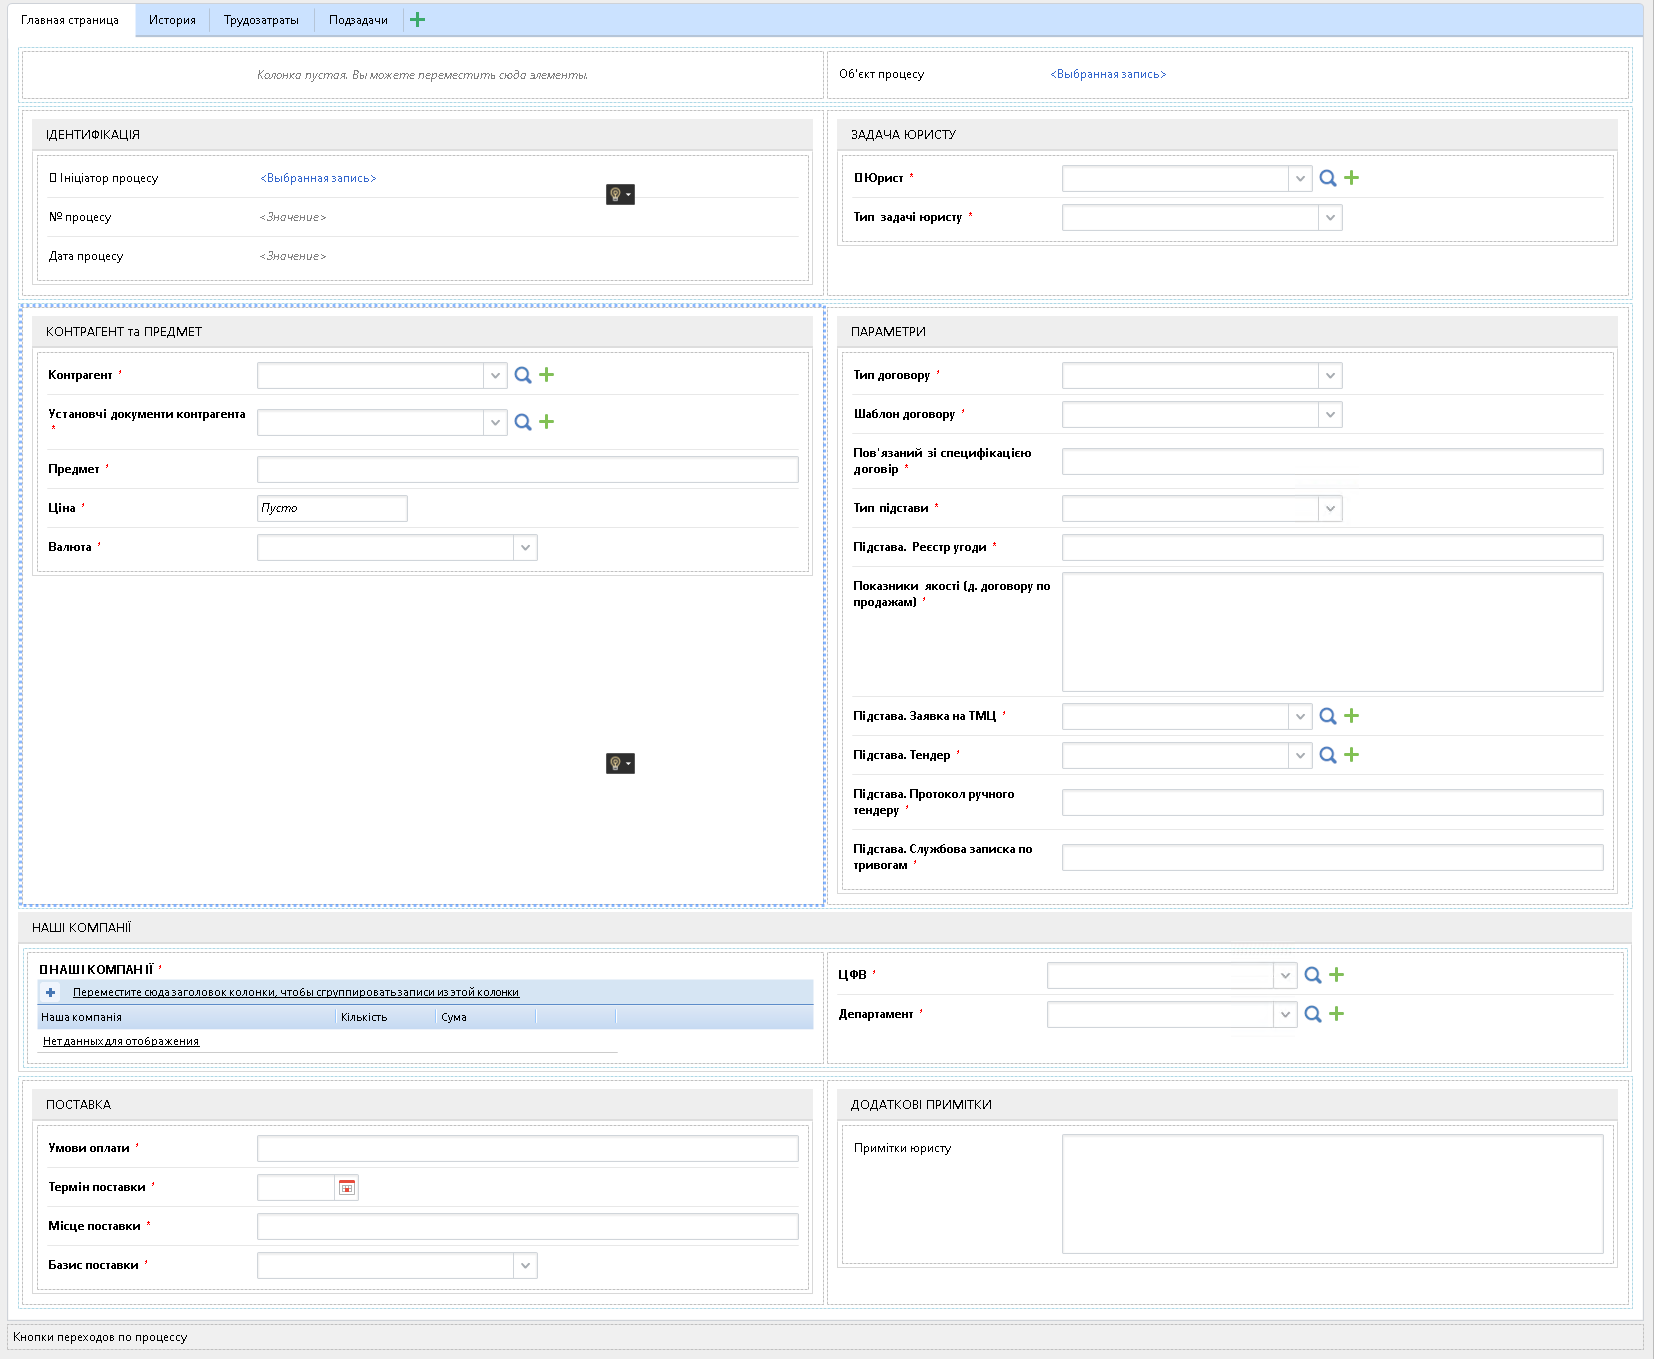
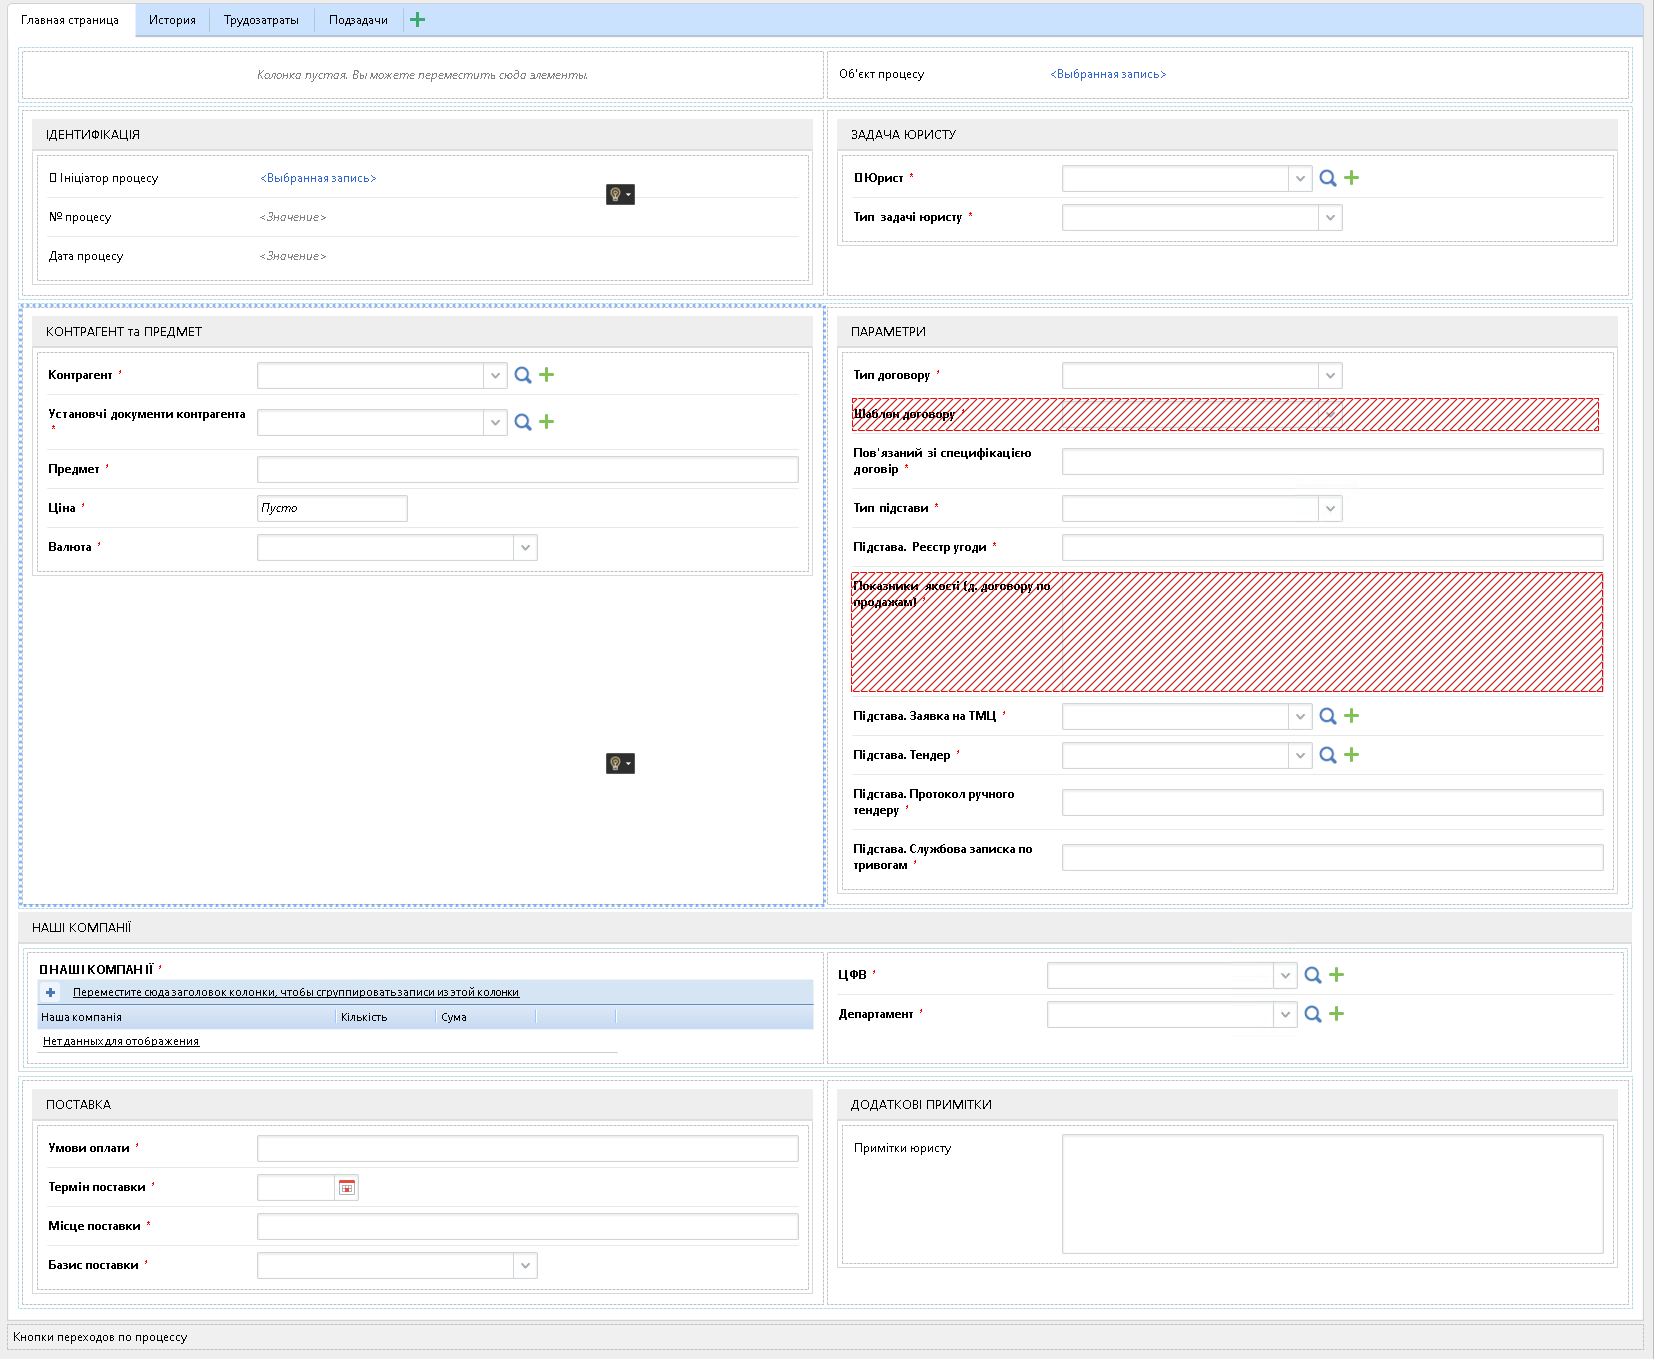
WIP

Changed region(s): [[0.4933, 0.4018, 0.9867, 0.5254], [0.5242, 0.2781, 0.9559, 0.34]]

diff --git a/Kusto/Processes/B/16/README.MD b/Kusto/Processes/B/16/README.MD
@@ -83,38 +83,44 @@
 - `     ✏ ` — Для заповнення
 - `     ✏❗` — Для заповнення, **обов'язково**
 
-|🛠|| Властивість </br> `Property` | Тип даних </br> `DataType` | Примітки |
+|🛠|На формі| Властивість </br> `Property` | Тип даних </br> `DataType` | Примітки |
 |---|---|---|---|---|
-||| 👤 Ініціатор процесу </br> `Z10Usr_Initiator` | 📘 [Користувач](../../../Entities/User.md) </br> `User` |  |
-||| № процесу </br> `ProcNumber` | Ціле число </br> `Int64` |  |
-||| Дата процесу </br> `ProcDate` | Дата / час </br> `DateTime` |  |
-||| 👤 Юрист </br> `Usr_Lawyer` | 📘 [Користувач](../../../Entities/User.md) </br> `User` |  |
-||---|---|---|---|
+||`  👁    `| Об'єкт процесу </br> `ProcObject` | 📘 [Задача юристу](../../../Entities/TaskToLawyer.md) </br> `TaskToLawyer` |  |
+||| ◤ ІДЕНТИФІКАЦІЯ |---|Блок на формі|
+||`  👁    `| 👤 Ініціатор процесу </br> `Z10Usr_Initiator` | 📘 [Користувач](../../../Entities/User.md) </br> `User` |  |
+||`  👁    `| № процесу </br> `ProcNumber` | Ціле число </br> `Int64` |  |
+||`  👁    `| Дата процесу </br> `ProcDate` | Дата / час </br> `DateTime` |  |
+||| ◤ ЗАДАЧА ЮРИСТУ |---|Блок на формі|
+||`     ✏❗`| 👤 Юрист </br> `Usr_Lawyer` | 📘 [Користувач](../../../Entities/User.md) </br> `User` |  |
+||`     ✏❗`| Тип задачі юристу </br> `TaskToLawyerType` | 🎲 [Тип задачі юристу](../../../Enums/ETaskToLawyerType.md) </br> `ETaskToLawyerType` |  |
+||| ◤ КОНТРАГЕНТ та ПРЕДМЕТ |---|Блок на формі|
+||`     ✏❗`| Контрагент </br> `Contractor` | 📘 [Контрагент](../../../Entities/Contractor.md) </br> `Contractor` |  |
+||`     ✏❗`| Установчі документи контрагента </br> `ContractorFoundationDocs` | 🗃 Колекція<📘 [Вкладення](../../../Entities/Attachment.md)> </br> `ICollection<Attachment>` |  |
+||`     ✏❗`| Предмет </br> `Subject` | Стрічка </br> `String` |  |
+||`     ✏❗`| Ціна </br> `Price` | Дробне число </br> `Double` |  |
+||`     ✏❗`| Валюта </br> `Currency` | 🎲 [Валюта](../../../Enums/ECurrency.md) </br> `ECurrency` |  |
+||| ◤ ПАРАМЕТРИ |---|Блок на формі|
+||`     ✏❗`| Тип договору </br> `ContractType` | 🎲 [Тип договору](../../../Enums/EContractType.md) </br> `EContractType` |  |
+|⛔|`     ✏❗`| Шаблон договору </br> `ContractTemplateType` | 🎲 [Тип шаблону договору](../../../Enums/EContractTemplateType.md) </br> `EContractTemplateType` | Не відображати на формі ініціатора |
+||`     ✏❗`| Пов'язаний зі специфікацією договір </br> `SpecificationRelatedContract` | 📕 [Договір](../../../Documents/D24032_Contract.md) </br> `D24032_Contract` |  |
+||`     ✏❗`| Тип підстави </br> `BasementType` | 🎲 [Тип підстави договору](../../../Enums/EContractBasementType.md) </br> `EContractBasementType` |  |
+||`     ✏❗`| Підстава. Реєстр угоди </br> `Base_DealRegister` | 📕 [Реєстр угоди](../../../Documents/KD_DealRegister.md) </br> `KD_DealRegister` |  |
+||| ◤ НАШІ КОМПАНІЇ |---|Блок на формі|
+||| ◤ ПОСТАВКА |---|Блок на формі|
+||| ◤ ДОДАТКОВІ ПРИМІТКИ |---|Блок на формі|
 ||| Назва процесу </br> `ProcName` | Стрічка </br> `String` |  |
 ||| Статус процесу </br> `ProcStatus` | 🎲 [Статус задачі юристу](../../../Enums/ETaskToLawyerStatus.md) </br> `ETaskToLawyerStatus` |  |
-||| Тип задачі юристу </br> `TaskToLawyerType` | 🎲 [Тип задачі юристу](../../../Enums/ETaskToLawyerType.md) </br> `ETaskToLawyerType` |  |
 ||| ЦФВ </br> `CFR` | 📘 [ЦФВ (Центр Фінансової Відповідальності)](../../../Entities/CFR.md) </br> `CFR` |  |
 ||| Департамент </br> `Department` | 📘 [Департамент](../../../Entities/Department.md) </br> `Department` |  |
-||| Контрагент </br> `Contractor` | 📘 [Контрагент](../../../Entities/Contractor.md) </br> `Contractor` |  |
-||| Установчі документи контрагента </br> `ContractorFoundationDocs` | 🗃 Колекція<📘 [Вкладення](../../../Entities/Attachment.md)> </br> `ICollection<Attachment>` |  |
-||| Тип договору </br> `ContractType` | 🎲 [Тип договору](../../../Enums/EContractType.md) </br> `EContractType` |  |
-||| Шаблон договору </br> `ContractTemplateType` | 🎲 [Тип шаблону договору](../../../Enums/EContractTemplateType.md) </br> `EContractTemplateType` |  |
-||| Пов'язаний зі специфікацією договір </br> `SpecificationRelatedContract` | 📕 [Договір](../../../Documents/D24032_Contract.md) </br> `D24032_Contract` |  |
-||| Тип підстави </br> `BasementType` | 🎲 [Тип підстави договору](../../../Enums/EContractBasementType.md) </br> `EContractBasementType` |  |
-||| Підстава. Реєстр угоди </br> `Base_DealRegister` | 📕 [Реєстр угоди](../../../Documents/KD_DealRegister.md) </br> `KD_DealRegister` |  |
 ||| Підстава. Заявка на ТМЦ </br> `Base_AppForTMC` | 📘 [Заявка на ТМЦ](../../../Entities/Request.md) </br> `Request` |  |
 ||| Підстава. Тендер </br> `Base_Tender` | 📘 [Тендер](../../../Entities/Tender.md) </br> `Tender` |  |
 ||| Підстава. Протокол ручного тендеру </br> `Base_TenderManual` | 📕 [Протокол ручного тендеру](../../../Documents/D24032_ManualTender.md) </br> `D24032_ManualTender` |  |
 ||| Підстава. Службова записка по тривогам </br> `Base_ServiceNoteByAllerts` | 📕 [Службова записка по тривогам](../../../Documents/AppTMCv2Doc_UrgentByAlert.md) </br> `AppTMCv2Doc_UrgentByAlert` |  |
-||| Предмет </br> `Subject` | Стрічка </br> `String` |  |
-||| Ціна </br> `Price` | Дробне число </br> `Double` |  |
-||| Валюта </br> `Currency` | 🎲 [Валюта](../../../Enums/ECurrency.md) </br> `ECurrency` |  |
 ||| Умови оплати </br> `PaymentConditions` | Стрічка </br> `String` |  |
 ||| Термін поставки </br> `DeliveryTime` | Дата / час </br> `DateTime` |  |
 ||| Місце поставки </br> `DeliveryPlace` | Стрічка </br> `String` |  |
 ||| Базис поставки </br> `DeliveryBasis` | 🎲 [Базис поставки](../../../Enums/EDeliveryBasis.md) </br> `EDeliveryBasis` |  |
 ||| Примітки юристу </br> `RemarksForLawyer` | Стрічка </br> `String` |  |
-||| Об'єкт процесу </br> `ProcObject` | 📘 [Задача юристу](../../../Entities/TaskToLawyer.md) </br> `TaskToLawyer` |  |
 |🚧|| 🧰 НАШІ КОМПАНІЇ </br> `BL10_OurCompanies` | 🚧 </br> `🚧` |  |
 |||    Наша компанія </br> `BI_OurCompany` | 📘 [Наша компанія](../../../Entities/OurCompany.md) </br> `OurCompany` |  |
 |||    Кількість </br> `BI_Amount` | Дробне число </br> `Double` |  |
